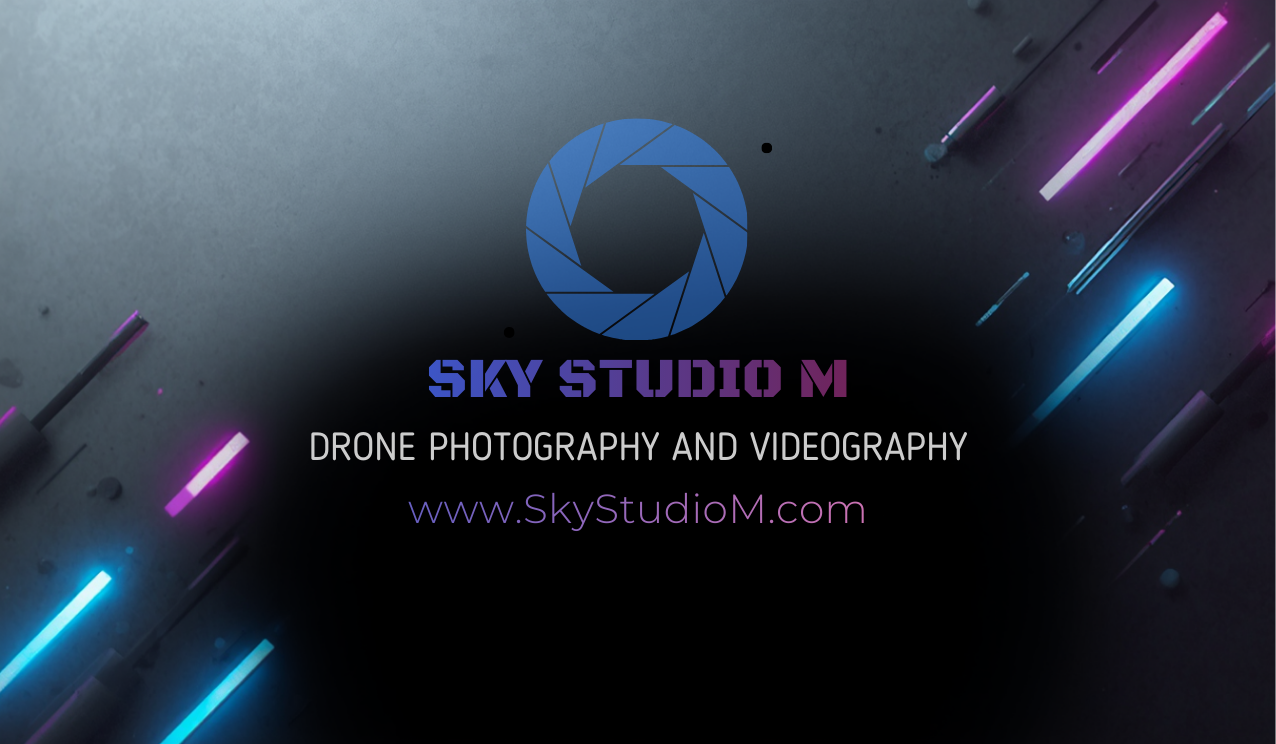
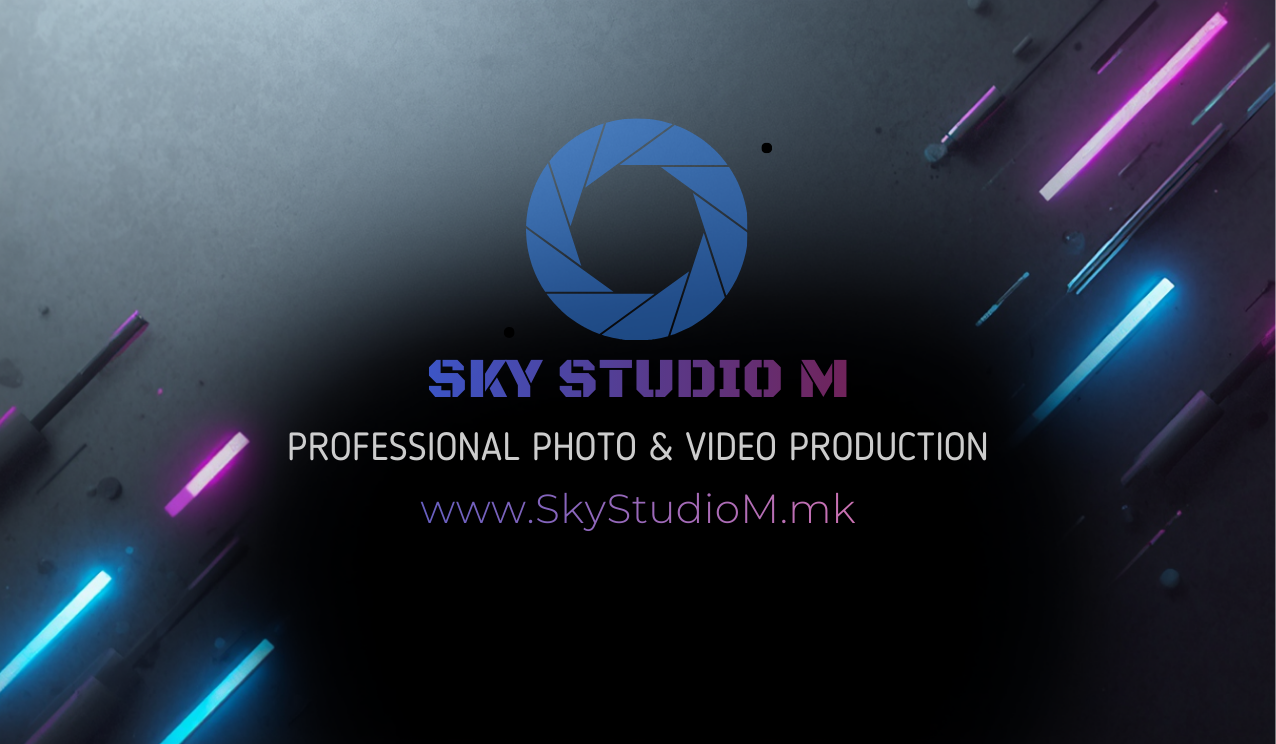
nov description

Changed region(s): [[0.2139, 0.5565, 0.7947, 0.6183], [0.3056, 0.6492, 0.6724, 0.711]]

diff --git a/index.html b/index.html
@@ -70,17 +70,17 @@
   <title>Sky Studio M | Фото и видео продукција | Снимање со дрон</title>
     <meta
       name="description"
-      content="Професионално снимање со дрон во Скопје и Македонија. Snimanje so dron vo Skopje i Makedonija. Sony A7 V снимање, кадри за недвижности, настани и B2B соработка. 4K видео продукција, професионална монтажа, снимање на недвижности, настани и кинематографски кадри со Sky Studio M."
+      content="Професионална фото и видео продукција, Професионално снимање со дрон во Скопје и Македонија. Snimanje so dron vo Skopje i Makedonija. Sony A7 V снимање, кадри за недвижности, настани и B2B соработка. 4K видео продукција, професионална монтажа, снимање на недвижности, настани и кинематографски кадри со Sky Studio M."
     />
     <meta
       name="keywords"
       content="снимање со дрон Скопје, snimanje so dron, видео продукција Македонија, Sony A7 V снимање, професионални фотографии, дрон видеа за недвижности, Sky Studio M, DJI Mini 5 Pro, DJI Mavic 3 Pro, професионално снимање, видео продукција Скопје"
     />
     <meta name="author" content="Sky Studio M" />
-    <meta property="og:title" content="Sky Studio M | Снимање со дрон" />
+    <meta property="og:title" content="Sky Studio M | Професионална фото и видео продукција | Снимање со дрон" />
     <meta
       property="og:description"
-      content="Професионално снимање со дрон и видео монтажа. Вашата визија од нова перспектива."
+      content="Професионална фото и видео продукција. Вашата визија од нова перспектива."
     />
     <meta
       property="og:image"
@@ -90,7 +90,7 @@
     <meta property="og:type" content="website" />
     <meta
       property="og:title"
-      content="Sky Studio M | Професионално снимање со дрон и B2B продукции"
+      content="Sky Studio M | Професионална фото и видео продукција | Снимање со дрон и B2B продукции"
     />
     <meta
       property="og:description"
@@ -133,7 +133,7 @@
           "addressLocality": "Skopje",
           "addressCountry": "MK"
         },
-        "description": "Професионално снимање со дрон и видео монтажа во Скопје и Македонија. Специјализирани за недвижности, настани и кинематографски кадри.",
+        "description": "Професионална фото и видео продукција во Скопје и Македонија. Специјализирани за недвижности, настани и кинематографски кадри.",
         "priceRange": "$$"
       }
     </script>
